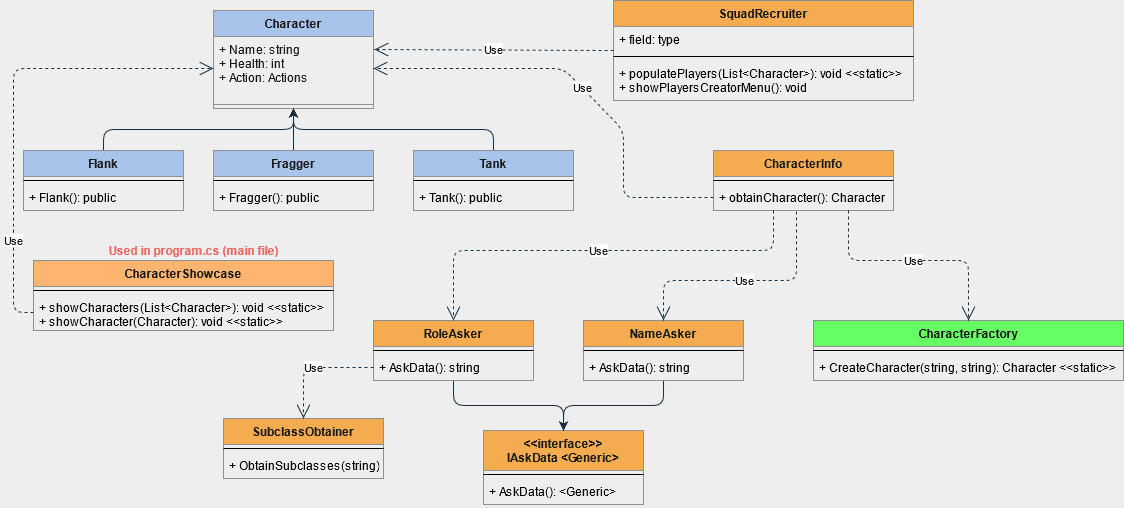
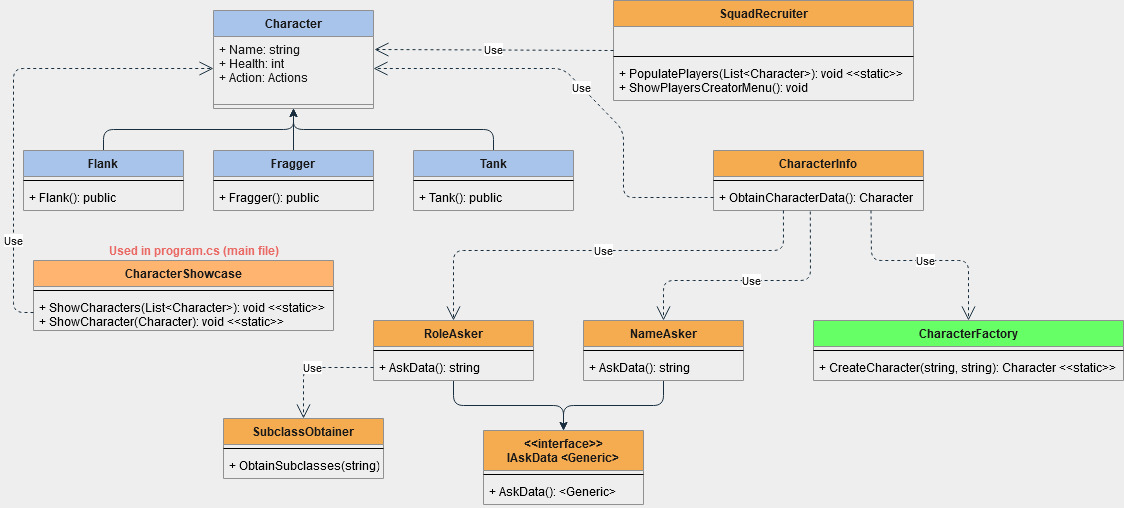
Code standards refactoring

diff --git a/CharactersFactory/CharactersFactory/Program.cs b/CharactersFactory/CharactersFactory/Program.cs
@@ -14,22 +14,22 @@ namespace CharactersFactory
             var exit = false;
 
             // First Character creation
-            SquadRecruiter.populatePlayers(playerList);
+            SquadRecruiter.PopulatePlayers(playerList);
             player = playerList[0];
 
             // Character mini game menu
             while (exit == false)
             {
-                printStartMenuUI();
+                PrintStartMenuUI();
                 switch (Console.ReadLine())
                 {
                     case "1":
-                        SquadRecruiter.populatePlayers(playerList); // Create more characters
+                        SquadRecruiter.PopulatePlayers(playerList); // Create more characters
                         break;
 
                     case "2":
                         Console.WriteLine("\nChose a character by its ID\n");
-                        CharacterShowcase.showCharacters(playerList);
+                        CharacterShowcase.ShowCharacters(playerList);
                         int selection = Convert.ToInt32(Console.ReadLine());
 
                         if (selection <= playerList.Count)
@@ -45,7 +45,7 @@ namespace CharactersFactory
 
                     case "3":
                         Console.WriteLine("\nYour actual character is: \n");
-                        CharacterShowcase.showCharacter(player);
+                        CharacterShowcase.ShowCharacter(player);
                         Console.WriteLine("\nEnter some key to continue...");
                         Console.ReadKey();
                         break;
@@ -61,7 +61,7 @@ namespace CharactersFactory
                 }
             }
 
-            void printStartMenuUI()
+            void PrintStartMenuUI()
             {
                 Console.Clear();
                 Console.WriteLine("Choose an option:\n");

diff --git a/CharactersFactory/CharactersFactory/Data/SquadRecruiter.cs b/CharactersFactory/CharactersFactory/Data/SquadRecruiter.cs
@@ -7,17 +7,17 @@ namespace CharactersFactory
 {
     class SquadRecruiter
     {
-        public static void populatePlayers(List<Character> playerList)
+        public static void PopulatePlayers(List<Character> playerList)
         {
 
             bool exit = false;
             while (exit == false)
             {
-                showPlayersCreatorMenu();
+                ShowPlayersCreatorMenu();
                 switch (Console.ReadLine())
                 {
                     case "1":
-                        var player = CharacterInfo.obtainCharacter();
+                        var player = CharacterInfo.ObtainCharacterData();
                         playerList.Add(player);
                         Console.WriteLine("player added...");
                         Thread.Sleep(100);
@@ -39,7 +39,7 @@ namespace CharactersFactory
             }
 
         }
-        public static void showPlayersCreatorMenu()
+        public static void ShowPlayersCreatorMenu()
         {
             Console.Clear();
             Console.WriteLine("------------------CHARACTER CREATOR------------------");

diff --git a/CharactersFactory/CharactersFactory/Data/CharacterShowcase.cs b/CharactersFactory/CharactersFactory/Data/CharacterShowcase.cs
@@ -6,7 +6,7 @@ namespace CharactersFactory
 {
     class CharacterShowcase
     {
-        public static void showCharacters(List<Character> characterList)
+        public static void ShowCharacters(List<Character> characterList)
         {
             Console.WriteLine("\n");
             for (int i = 0; i < characterList.Count; i++)
@@ -14,11 +14,11 @@ namespace CharactersFactory
 
                 var c = characterList[i];
                 Console.Write($"{i}) ");
-                showCharacter(c);
+                ShowCharacter(c);
                 Console.WriteLine();
             }
         }
-        public static void showCharacter(Character character)
+        public static void ShowCharacter(Character character)
         {
             StringBuilder characterData = new StringBuilder();
             characterData.Append($"Name: {character.Name} | Health {character.Health} | ");

diff --git a/CharactersFactory/CharactersFactory/Data/CharacterInfo.cs b/CharactersFactory/CharactersFactory/Data/CharacterInfo.cs
@@ -6,7 +6,7 @@ namespace CharactersFactory
 {
     class CharacterInfo
     {
-        public static Character obtainCharacter()
+        public static Character ObtainCharacterData()
         {
             // Console.Clear();
             RoleAsker roleData = new RoleAsker();

diff --git a/README.md b/README.md
@@ -47,3 +47,7 @@ I just wrote that function in the diagram to make sense of the actions in the pr
 What the "SelectPlayerCharacter()" represents is what the name says, but in the code this is a simple "player = playerList[selection];"
 
 -  The sequence diagram only represents the events ocurring in the main file "program.cs"
+
+-  The program is often asking for the user to choose an option. Each option is always numbered in the menu 
+For Example: "0)continue" this means that the user has to enter the "0" key to use the "continue" option in the menu.
+Please do not enter options out of range as I did not control this kind of exceptions.
